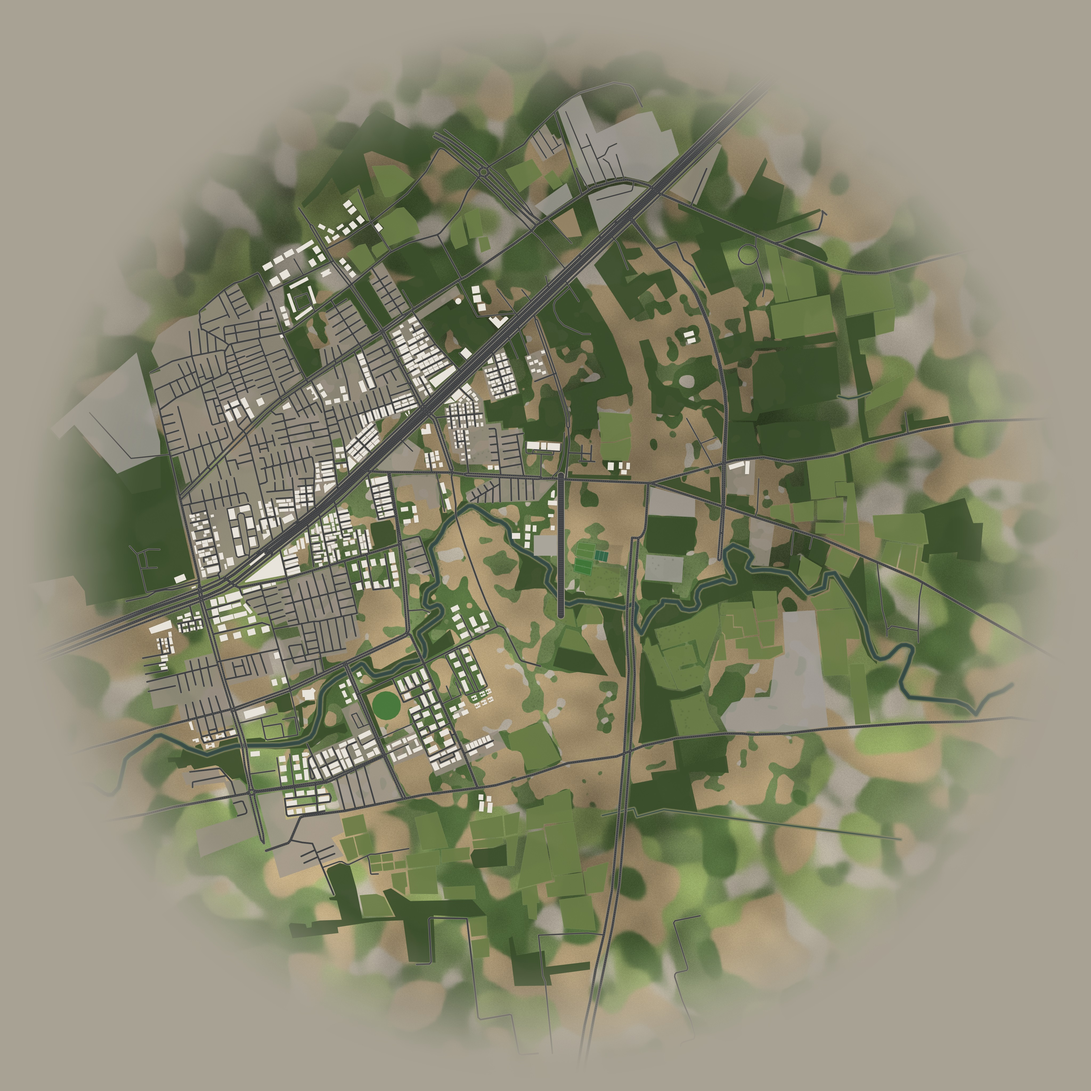
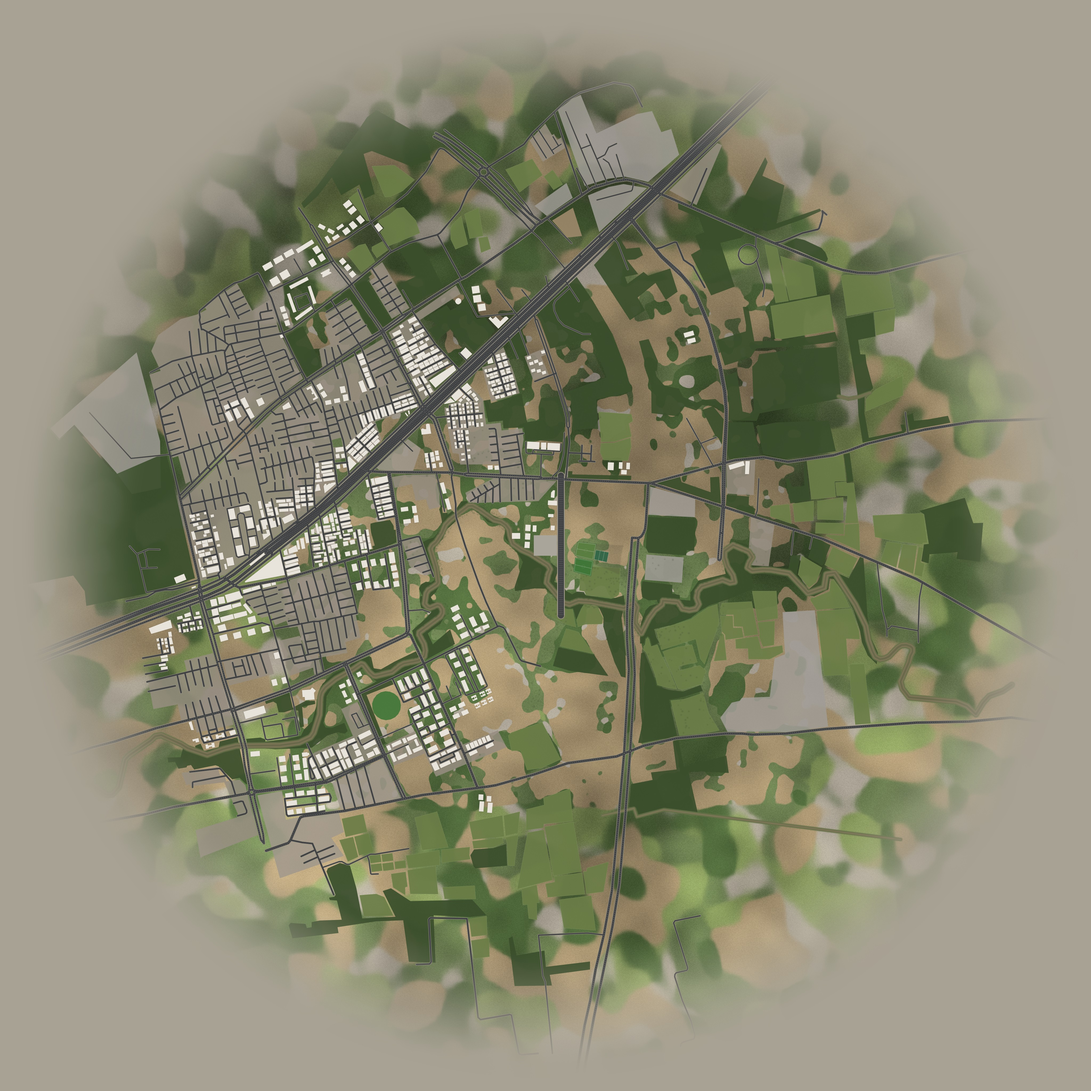
Mobile UI: remove 3D/photo toggle, info panel minimisable from the footer (Flats) with see-through glass and crisp text; no river behind the site (dry tree-lined nallah per Google Maps); near-front landmarks (hedged party-plot lawns, palm lane, netted box-cricket cage)
Claude-Session: https://claude.ai/code/session_0173aKQ2bikzj6148UHgjkDt

diff --git a/src/main.ts b/src/main.ts
@@ -114,15 +114,15 @@ function activeTab() {
   if (touring) return 'drone';
   if (S.mode === 'balcony') return 'balcony';
   if ($('#modal').classList.contains('on')) return modalTab;
-  return 'explore';
+  return ctxOpen ? 'homes' : 'explore';
 }
 let modalTab = '';
 function renderTabs() {
   const tabs: [string, string, string, () => void][] = [
-    ['explore', 'cube', t('tabExplore'), () => { closeModal(); stopTour(); goCampus(); }],
+    ['explore', 'cube', t('tabExplore'), () => { closeModal(); stopTour(); goCampus(); if (IS_MOBILE && ctxOpen) setCtxOpen(false); }],
     ['drone', 'drone', t('tabDrone'), () => { closeModal(); droneTour(); }],
     ['balcony', 'eye', t('tabBalcony'), () => { closeModal(); openBalconyView(); }],
-    ['homes', 'home', t('tabHomes'), () => { stopTour(); openResidences(); }],
+    ['homes', 'home', t('tabHomes'), () => { stopTour(); if ($('#modal').classList.contains('on')) closeModal(); if (S.mode === 'balcony') { exitBalcony(); } setCtxOpen(!ctxOpen); }],
     ['more', 'menu', t('tabMore'), () => { stopTour(); openMore(); }],
   ];
   const el = $('#tabs');
@@ -144,18 +144,6 @@ function renderDock() {
   d.innerHTML = `<button class="fab" id="dayNight" title="${t('dayNight')}" aria-label="${t('dayNight')}">${icon(world.night > 0.5 ? 'sun' : 'moon')}</button>
     <button class="fab" id="resetCam" title="${t('reset')}" aria-label="${t('reset')}">${icon('reset')}</button>
     <button class="fab" id="helpBtn" title="${t('howTo')}" aria-label="${t('howTo')}">${icon('help')}</button>`;
-  if (orbit.ready) {
-    const b = document.createElement('button');
-    b.className = 'fab txt'; b.id = 'viewToggle';
-    b.textContent = photoPref ? '3D' : '📷';
-    b.title = photoPref ? 'Live 3D' : 'Photoreal';
-    d.prepend(b);
-    b.onclick = () => {
-      photoPref = !photoPref;
-      if (S.unit) selectUnit(S.unit); else if (S.tower) selectTower(S.tower, S.floor); else goCampus();
-      renderDock();
-    };
-  }
   if (photoActive()) {
     const ic: Record<PhotoKind, string> = { day: 'sun', sunset: 'sun', night: 'moon' };
     $('#dayNight').innerHTML = icon(ic[orbit.kind]) + (orbit.kind === 'sunset' ? '<i class="sunsetdot"></i>' : '');
@@ -214,7 +202,26 @@ const towerInfo = (tw: string) => {
   const types = [...new Set(us.map((u) => u.type))].join(' · ');
   return { avail: us.filter((u) => u.status === 'available').length, total: us.length, types };
 };
+let ctxOpen = !IS_MOBILE;
+function setCtxOpen(v: boolean) {
+  ctxOpen = v;
+  const c = $('#ctx');
+  if (v) { c.classList.remove('min'); gsap.fromTo(c, { y: 24, opacity: 0 }, { y: 0, opacity: 1, duration: 0.32, ease: 'power2.out' }); }
+  else c.classList.add('min');
+  renderTabs();
+}
+function ctxHandle() {
+  const c = $('#ctx');
+  c.querySelectorAll('.ctx-min').forEach((x) => x.remove());
+  const h = document.createElement('button');
+  h.className = 'ctx-min'; h.setAttribute('aria-label', t('close'));
+  h.innerHTML = '<i></i>';
+  h.onclick = () => setCtxOpen(false);
+  c.prepend(h);
+  c.classList.toggle('min', !ctxOpen);
+}
 function renderCtx() {
+  queueMicrotask(ctxHandle);
   const c = $('#ctx');
   c.classList.remove('hidden');
   if (S.mode === 'balcony' || S.mode === 'interior') { c.classList.add('hidden'); return; }
@@ -337,6 +344,7 @@ function goCampus() {
 }
 function selectTower(tw: string, floor: number | null = null) {
   stopTour();
+  if (!ctxOpen) setCtxOpen(true);
   realView.close();
   context.clear.value = 40;
   if (S.mode === 'balcony') exitBalcony();
@@ -949,6 +957,7 @@ function openEnquiry() {
 function openMore() {
   modalTab = 'more';
   const items: [string, string, () => void][] = [
+    ['home', t('allHomes'), () => openResidences()],
     ['img', t('sampleFlat'), () => openSampleFlat()],
     ['img', t('gallery'), () => openGallery()],
     ['pin', t('location'), () => openLocation()],

diff --git a/src/styles.css b/src/styles.css
@@ -417,3 +417,20 @@ body:not(.bal) #tourHs { display: none; }
   body.bal #hud h3 { font-size: 18px; }
   body.bal #hud > div { min-width: 0; max-width: 100%; }
 }
+
+/* ---------------------------------------------------------------- info panel: minimisable, see-through, crisp text */
+#ctx { transition: transform .32s cubic-bezier(.2,.8,.2,1), opacity .25s; }
+#ctx.min { transform: translateY(calc(100% + 120px)); opacity: 0; pointer-events: none; }
+@media (min-width: 721px) { #ctx.min { transform: translateX(calc(-100% - 40px)); } }
+#ctx.panel, #card.panel { background: rgba(10, 14, 20, 0.44); backdrop-filter: blur(14px) saturate(1.4); -webkit-backdrop-filter: blur(14px) saturate(1.4);
+  border-color: rgba(255,255,255,.16); }
+#ctx, #card { text-shadow: 0 1px 2px rgba(0,0,0,.55); }
+#ctx .muted, #card .muted, #ctx .legend { color: rgba(255,255,255,.86); }
+#ctx .tower-card, #ctx .floor-row, #ctx .unit-item { background: rgba(255,255,255,.10); border-color: rgba(255,255,255,.18); }
+#ctx .eyebrow { color: #f2c48f; }
+.ctx-min { position: sticky; top: -8px; float: right; margin: -8px -8px 0 6px; width: 40px; height: 28px; border: 0; border-radius: 10px;
+  background: rgba(255,255,255,.12); cursor: pointer; display: grid; place-items: center; z-index: 2; }
+.ctx-min i { width: 12px; height: 12px; border-right: 2.5px solid #fff; border-bottom: 2.5px solid #fff; transform: translateY(-2px) rotate(45deg); }
+@media (min-width: 721px) { .ctx-min i { transform: translateX(2px) rotate(135deg); } }
+@media (max-width: 720px) { #ctx { max-height: 44vh; } }
+#tabs button[data-k="homes"].on { color: #fff; }

diff --git a/src/ui/i18n.ts b/src/ui/i18n.ts
@@ -109,7 +109,8 @@ const D = {
   tabExplore: ['Explore', 'જુઓ', 'देखें'],
   tabDrone: ['Drone', 'ડ્રોન', 'ड्रोन'],
   tabBalcony: ['Balcony', 'બાલ્કની', 'बालकनी'],
-  tabHomes: ['Homes', 'ફ્લેટ', 'फ्लैट'],
+  tabHomes: ['Flats', 'ફ્લેટ', 'फ्लैट'],
+  allHomes: ['All 336 homes · list & filters', 'બધા 336 ઘર · યાદી અને ફિલ્ટર', 'सभी 336 घर · सूची और फ़िल्टर'],
   tabMore: ['More', 'વધુ', 'और'],
   balcony14: ['Balcony view · 14th floor', 'બાલ્કની વ્યૂ · 14મો માળ', 'बालकनी व्यू · 14वीं मंज़िल'],
   balconyAB: ['Tower A & B · road side · real 360°', 'ટાવર A અને B · રોડ સાઇડ · વાસ્તવિક 360°', 'टावर A और B · रोड साइड · असली 360°'],

diff --git a/blender/photoreal/landmarks.py b/blender/photoreal/landmarks.py
@@ -314,6 +314,78 @@ def eucalyptus(proto_name='TREE_r_ph'):
     return n
 
 
+GE = {  # traced on Google Earth / Esri imagery, context coords (x east, y SOUTH): Blender y = -y
+    'turf1': [[170.5, 115.3], [105.3, 97.4], [111.5, 45.2], [179.3, 58.3]],
+    'turf2': [[178.8, 54.6], [110.1, 38.7], [121.6, -14.5], [191.8, -5.9]],
+    'courts': [[230.0, 62.7], [182.7, 51.9], [189.3, 16.8], [237.6, 25.7]],
+}
+
+
+def _poly(k):
+    return [Vector((x, -y)) for x, y in GE[k]]
+
+
+def _strip(name, a, b, w, h, m, z0=0.0):
+    d = b - a
+    L = d.length
+    c = (a + b) / 2
+    return box(name, c.x, c.y, L, w, z0, z0 + h, m, math.atan2(d.y, d.x))
+
+
+def near_front():
+    """what you see right below the balcony: hedge-walled party-plot lawns, palm lane, netted box-cricket cage"""
+    hedge = mat('hedge', '#3E5A2C', 0.9)
+    n = 0
+    for k in ('turf1', 'turf2'):
+        P = _poly(k)
+        c = sum(P, Vector((0, 0))) / len(P)
+        P = [c + (p - c) * 1.06 for p in P]
+        for i in range(len(P)):
+            a, b = P[i], P[(i + 1) % len(P)]
+            if k == 'turf2' and i == 1:   # gate side stays open
+                mid = (a + b) / 2
+                _strip(f'hedge_{k}{i}a', a, mid - (b - a).normalized() * 6, 1.4, 2.6, hedge)
+                _strip(f'hedge_{k}{i}b', mid + (b - a).normalized() * 6, b, 1.4, 2.6, hedge)
+            else:
+                _strip(f'hedge_{k}{i}', a, b, 1.4, 2.6, hedge)
+            n += 1
+    palm = bpy.data.meshes.get('palm')
+    if palm:
+        A, B = _poly('turf1')[2], _poly('turf1')[3]      # lane between the two lawns
+        L = (B - A).length
+        for i in range(int(L // 7) + 1):
+            p = A + (B - A) * (i * 7 / L) + Vector((0, -2.5))
+            o = bpy.data.objects.new(f'palm_lane{i}', palm)
+            o.location = (p.x, p.y, 0); o.rotation_euler = (0, 0, i * 1.3)
+            link(o)
+    # BMR box cricket: steel poles + green net on all sides and roof
+    P = _poly('courts')
+    pole = mat('pole', '#5E6266', 0.5, 0.7)
+    net = bpy.data.materials.new('lm_net'); net.use_nodes = True
+    nb = net.node_tree.nodes['Principled BSDF']
+    nb.inputs['Base Color'].default_value = hexc('#2F4A3A'); nb.inputs['Alpha'].default_value = 0.32; nb.inputs['Roughness'].default_value = 0.9
+    try:
+        net.surface_render_method = 'BLENDED'
+    except Exception:
+        pass
+    H = 9.0
+    for i in range(len(P)):
+        a, b = P[i], P[(i + 1) % len(P)]
+        L = (b - a).length
+        for k in range(int(L // 8) + 1):
+            q = a + (b - a) * (k * 8 / L)
+            cyl(f'cage_pole{i}_{k}', q.x, q.y, 0.12, 0, H, pole, seg=8)
+        _strip(f'cage_net{i}', a, b, 0.05, H, net)
+        _strip(f'cage_rail{i}', a, b, 0.2, 0.2, pole, H - 0.2)
+    me = bpy.data.meshes.new('cage_roof')
+    bm = bmesh.new()
+    vs = [bm.verts.new((p.x, p.y, H)) for p in P]
+    bm.faces.new(vs); bm.to_mesh(me); bm.free()
+    me.materials.append(net)
+    link(bpy.data.objects.new('cage_roof', me))
+    return n
+
+
 def build():
     global COLL
     COLL = bpy.data.collections.get('LANDMARKS') or bpy.data.collections.new('LANDMARKS')
@@ -322,8 +394,8 @@ def build():
     for o in list(COLL.objects):
         bpy.data.objects.remove(o)
     twin_towers(); under_construction(); future_corner(); far_towers()
-    nh = houses(); party_plot(); ne = eucalyptus()
-    return {'objects': len(COLL.objects), 'houses': nh, 'eucalyptus': ne}
+    nh = houses(); party_plot(); ne = eucalyptus(); nf = near_front()
+    return {'objects': len(COLL.objects), 'houses': nh, 'eucalyptus': ne, 'hedges': nf}
 
 
 def balcony_camera(name='cam_b1402', lens=16.0):

diff --git a/scripts/build_ground_real.py b/scripts/build_ground_real.py
@@ -53,8 +53,8 @@ PAL = {
     'turf2':     (120, 156, 92),
     'court':     (70, 128, 86),
     'bank':      (170, 180, 140),
-    'water':     (94, 150, 160),
-    'water2':    (80, 136, 150),
+    'water':     (146, 134, 104),   # dry nallah bed (no water on site, Google Maps 2026)
+    'water2':    (118, 116, 84),
     'verge':     (214, 206, 190),
     'curb':      (236, 233, 224),
     'asphalt':   (92, 94, 98),
@@ -68,8 +68,8 @@ PAL = {
     'sand': (150, 132, 100), 'wet': (70, 92, 52), 'scrub': (88, 104, 66), 'grass': (118, 134, 80),
     'built': (160, 153, 140), 'farm': (106, 124, 70), 'wood': (58, 78, 44), 'resi': (150, 141, 128),
     'indu': (160, 156, 150), 'retail': (160, 152, 140), 'constr': (155, 135, 105), 'turf': (64, 118, 56),
-    'turf2': (90, 126, 66), 'court': (52, 104, 72), 'bank': (120, 124, 90), 'water': (60, 82, 74),
-    'water2': (50, 70, 66), 'verge': (150, 140, 120), 'curb': (190, 186, 178), 'asphalt': (64, 66, 68),
+    'turf2': (90, 126, 66), 'court': (52, 104, 72), 'bank': (104, 112, 74), 'water': (126, 116, 88),
+    'water2': (98, 100, 70), 'verge': (150, 140, 120), 'curb': (190, 186, 178), 'asphalt': (64, 66, 68),
     'mark': (222, 220, 210), 'pave': (170, 165, 155), 'haze': (168, 162, 148),
 }
 GRAIN = {'sand': 0.16, 'wet': 0.2, 'scrub': 0.24, 'grass': 0.18, 'farm': 0.2, 'wood': 0.3, 'built': 0.14, 'resi': 0.16, 'constr': 0.18, 'bank': 0.2}

diff --git a/scripts/build_map.py b/scripts/build_map.py
@@ -53,8 +53,8 @@ PAL = {
     'turf2':     (120, 156, 92),
     'court':     (70, 128, 86),
     'bank':      (170, 180, 140),
-    'water':     (94, 150, 160),
-    'water2':    (80, 136, 150),
+    'water':     (146, 134, 104),   # dry nallah bed (no water on site, Google Maps 2026)
+    'water2':    (118, 116, 84),
     'verge':     (214, 206, 190),
     'curb':      (236, 233, 224),
     'asphalt':   (92, 94, 98),
